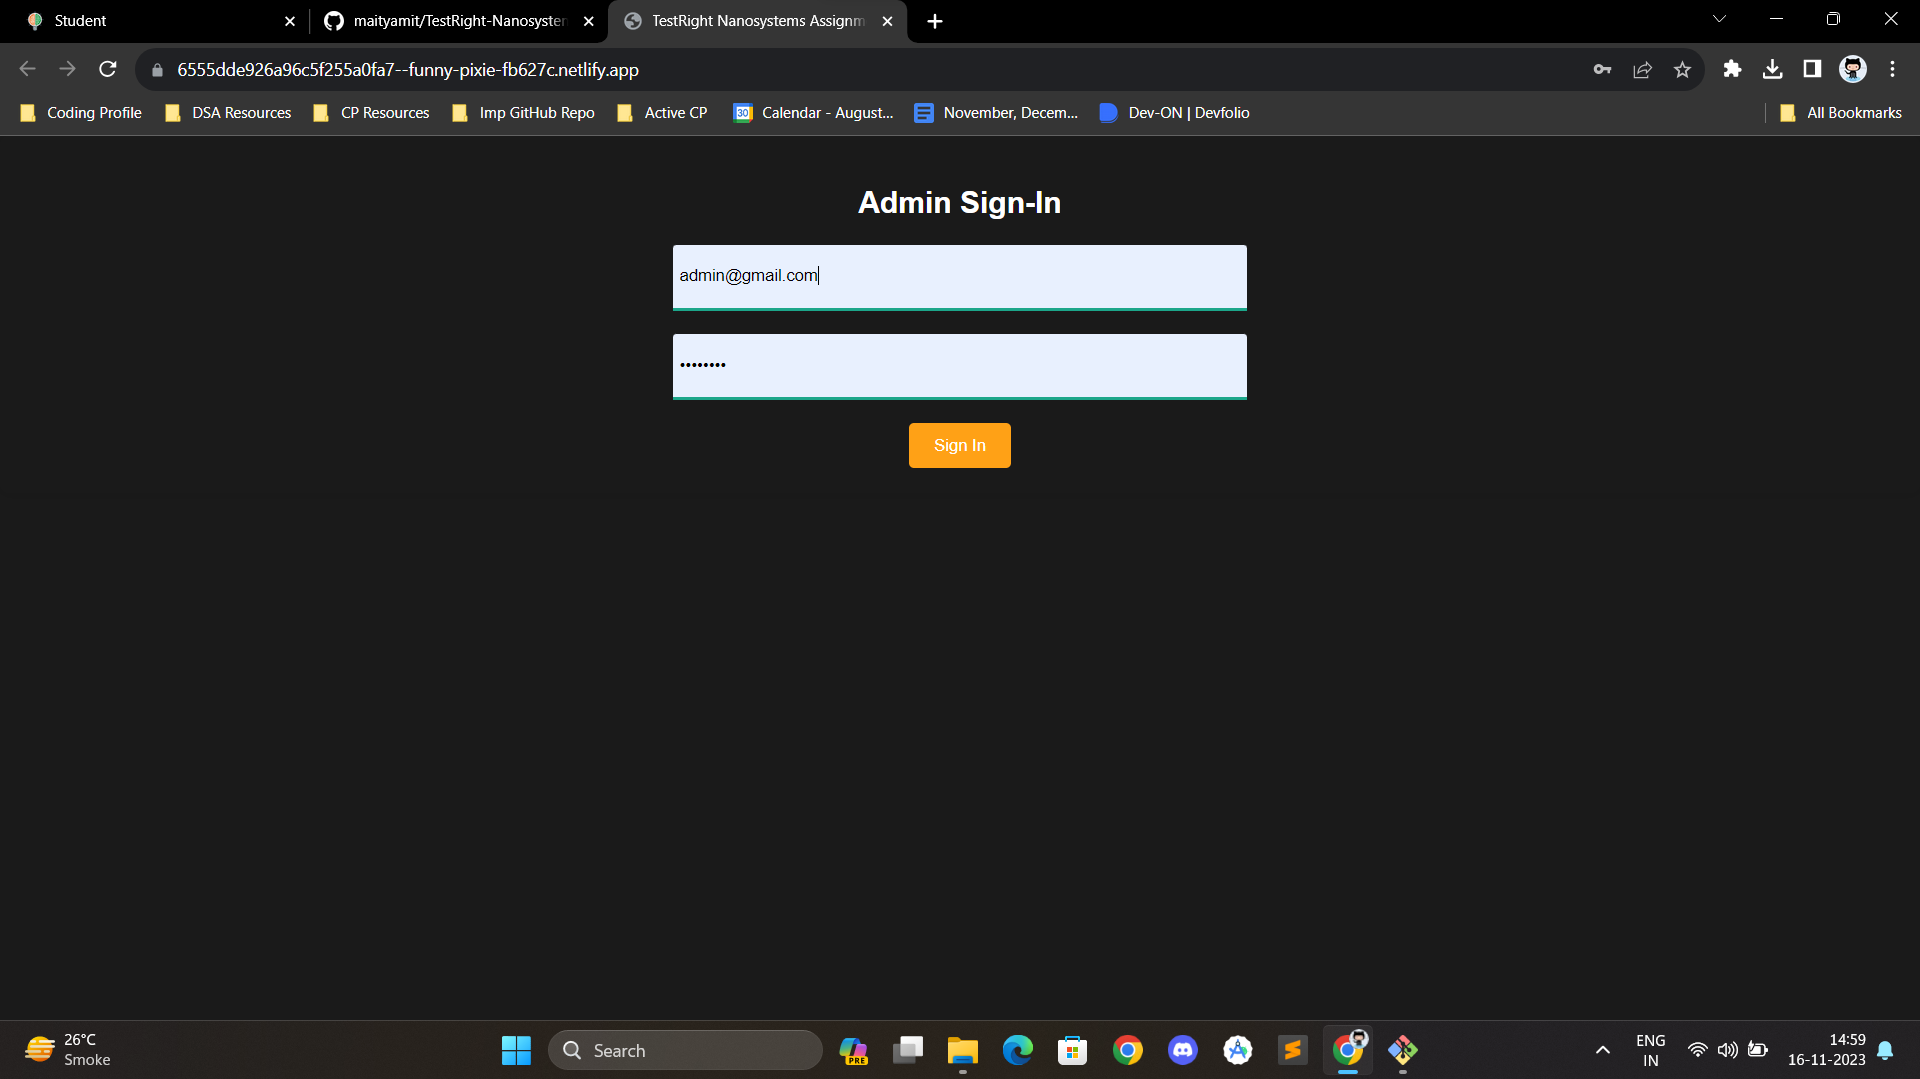
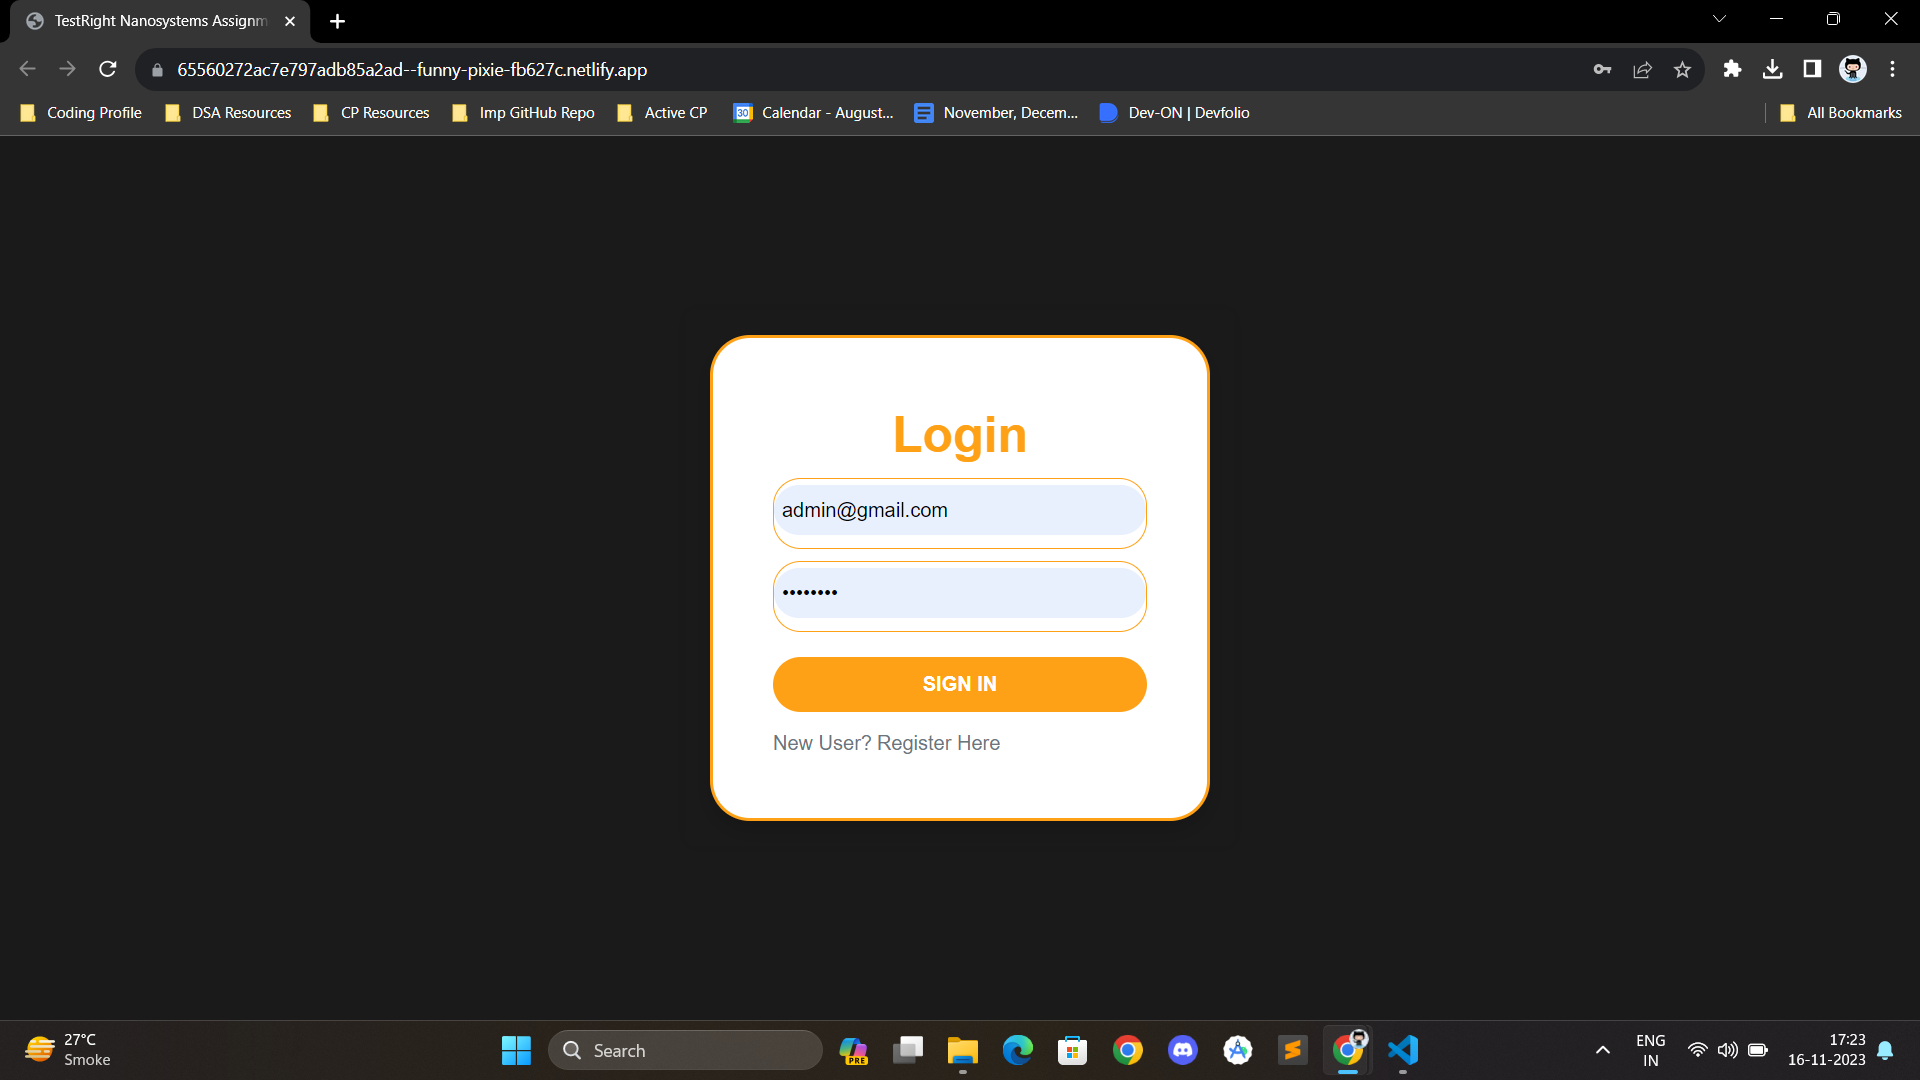
website update

diff --git a/index.html b/index.html
@@ -1,17 +1,90 @@
 <!DOCTYPE html>
 <html lang="en">
+
 <head>
-    <meta charset="UTF-8">
-    <meta http-equiv="X-UA-Compatible" content="IE=edge">
-    <meta name="viewport" content="width=device-width, initial-scale=1.0">
-    <title>TestRight Nanosystems Assignment    </title>
-    <!-- Include Firebase SDK -->
-    <script src="https://www.gstatic.com/firebasejs/9.0.1/firebase-app.js"></script>
-    <script src="https://www.gstatic.com/firebasejs/9.0.1/firebase-database.js"></script>
-    <!-- Include jQuery -->
-    <script src="https://code.jquery.com/jquery-3.6.4.min.js"></script>
-    <!-- Include xlsx library -->
-<script src="https://cdnjs.cloudflare.com/ajax/libs/xlsx/0.16.9/xlsx.full.min.js"></script>
+    <meta charset="UTF-8" />
+    <link rel="icon" type="image/x-icon" href="/assets/logo-vt.svg" />
+    <meta http-equiv="X-UA-Compatible" content="IE=edge" />
+    <meta name="viewport" content="width=device-width, initial-scale=1.0" />
+    <title>TestRight Nanosystems Assignment</title>
+    <link href="https://cdn.jsdelivr.net/npm/bootstrap@5.2.0/dist/css/bootstrap.min.css" rel="stylesheet"
+        integrity="sha384-gH2yIJqKdNHPEq0n4Mqa/HGKIhSkIHeL5AyhkYV8i59U5AR6csBvApHHNl/vI1Bx" crossorigin="anonymous" />
+    <script src="https://www.gstatic.com/firebasejs/9.8.4/firebase-app-compat.js"></script>
+    <script src="https://www.gstatic.com/firebasejs/9.8.4/firebase-firestore-compat.js"></script>
+    <script src="https://www.gstatic.com/firebasejs/9.8.4/firebase-auth-compat.js"></script>
+
+    <style>
+        /* Custom styles */
+        .login-title {
+            color: #FFA116;
+        }
+
+        .bg-white {
+            border: 3px solid #FFA116;
+        }
+        * {
+    margin: 0;
+    padding: 0;
+    box-sizing: border-box;
+}
+
+body {
+    display: flex;
+    justify-content: center;
+    align-items: center;
+    height: 100vh;
+    font-family: -apple-system, BlinkMacSystemFont, 'Segoe UI', Roboto, Oxygen, Ubuntu, Cantarell, 'Open Sans', 'Helvetica Neue', sans-serif;
+    background-color: #1A1A1A;
+}
+
+.form {
+    width: 400px;
+    border-radius: 5px;
+    background-color: white;
+    /* height:fit-content;  */
+    padding: 5px 10px;
+}
+
+label {
+    display: block;
+    font-weight: bolder;
+    margin: 5px 0px;
+}
+
+input {
+    width: 100%;
+    padding: 8px 5px;
+    border-radius: 5px;
+    margin-bottom: 10px;
+}
+
+#submit-btn {
+    border: none;
+    background-color: #FFA116;
+    width: 100%;
+    padding: 10px 8px;
+    color: white;
+    font-weight: bolder;
+    text-transform: uppercase;
+    cursor: pointer;
+    margin: 9px 0px;
+}
+
+p {
+    font-size: 12px;
+    border-radius: 10px;
+    cursor: pointer;
+    display: inline-block;
+}
+
+a {
+    text-decoration: none;
+    font-weight: bolder;
+}
+
+
+  
+    </style>
 
 
 <style>
@@ -123,40 +196,81 @@
 </style>
 
 </head>
-<body>
-
+<style>
+    .btn-info {
+        border-radius: 22px;
+        /* You can adjust the value to control the amount of curvature */
+    }
+</style>
+<body style="background-color: #1A1A1A;" class="d-flex justify-content-center align-items-center vh-100">
 
     <div id="admin-signin-form">
-        <h2>Admin Sign-In</h2>
-        <input type="email" id="email" placeholder="Enter your email"> <br><br>
-        <input type="password" id="password" placeholder="Enter your password"> <br> <br>
-        <button onclick="adminSignIn()">Sign In</button>
-    </div>
 
-    <div id="table_show_layout" style="display: none;">
 
-    <h1 align="center">TestRight Nanosystems Assignment</h1>
+    <div class="bg-white p-5 rounded-5 text-secondary shadow" style="width: 25rem">
+        <div class="d-flex justify-content-center">
+        </div>
+        <div class="text-center fs-1 fw-bold login-title" style="color: #FFA116;">Login</div>
+<div class="input-group mt-1" style="border: 0.5px solid #FFA116; border-radius: 22px; margin-bottom: 10px;">
+    <!-- <div class="input-group-text"
+        style="background-color: #ffffff; border: 0px solid #6F58C9; border-radius: 22px 0 0 22px;">
+        <img src="./assets/un.png" alt="username-icon" style="height: 1rem;" />
+    </div> -->
+    <input class="form-control bg-#ffffff" type="email" style="border: 0px solid #FFA116; border-radius: 25px; margin-top: 5px;"
+    name="email" id="email" placeholder="Email" />
 
-    <button id="export-button" onclick="exportTableToText()">Export as TXT</button>
 
-    <table border="1" align="center">
-        <thead>
-            <tr>
-                <th>Name</th>
-                <th>Email</th>
-                <th>Address</th>
-                <th>Mobile</th>
-            </tr>
-        </thead>
-        <tbody id="table-body"></tbody>
-    </table>
-
+  </div>
+<div class="input-group mt-1" style="border: 0.5px solid #FFA116; border-radius: 22px; margin-top: 15px;">
+    <!-- <div class="input-group-text"
+        style="background-color: #ffffff; border: 0px solid #6F58C9; border-radius: 22px 0 0 22px;">
+        <img src="./assets/pass.png" alt="username-icon" style="height: 1rem;" />
+    </div> -->
+    <input class="form-control bg-#ffffff" type="password" style="border: 0px solid #FFA116; border-radius: 25px; margin-top: 5px;"
+    name="password" id="password" placeholder="Password" />
 </div>
 
 
+        <div class="d-flex justify-content-around mt-1"></div>
+<style>
+    .btn-info {
+        border-radius: 22px;
+        /* You can adjust the value to control the amount of curvature */
+    }
+</style>
+<div button id="submit-btn" onclick="adminSignIn()" class="btn btn-info text-white w-100 mt-3 fw-semibold" style="background-color: #FFA116;">
+  Sign In
+</div>
+        <div class="d-flex gap-1 justify-content-left mt-1">
+            <div>New User?</div>
+            <div>Register Here</div>
+        </div>
+    </div>
+
+</div>
+
+    <div id="table_show_layout" style="display: none;">
+
+        <h1 align="center">TestRight Nanosystems Assignment</h1>
+    
+        <button id="export-button" onclick="exportTableToText()">Export as TXT</button>
+    
+        <table border="1" align="center">
+            <thead>
+                <tr>
+                    <th>Name</th>
+                    <th>Email</th>
+                    <th>Address</th>
+                    <th>Mobile</th>
+                </tr>
+            </thead>
+            <tbody id="table-body"></tbody>
+        </table>
+    
+    </div>
 
 
-<!-- Firebase -->
+    <!-- Firebase -->
     
 <script src="https://www.gstatic.com/firebasejs/5.9.4/firebase.js"></script>
 <!-- The core Firebase JS SDK is always required and must be listed first -->
@@ -191,11 +305,9 @@
 
       </script>
 
-
-<script src="./script.js"></script>
-
-
-
-
+    <script src="./script.js"></script>
 </body>
+
+
+
 </html>

diff --git a/script.js b/script.js
@@ -18,7 +18,7 @@ function adminSignIn(){
                     var visibleDiv = document.getElementById('admin-signin-form');
                     var invisibleDiv = document.getElementById('table_show_layout');
 
-                    //  alert("done")
+                    // alert("done")
 
                      var database = firebase.database();
 
